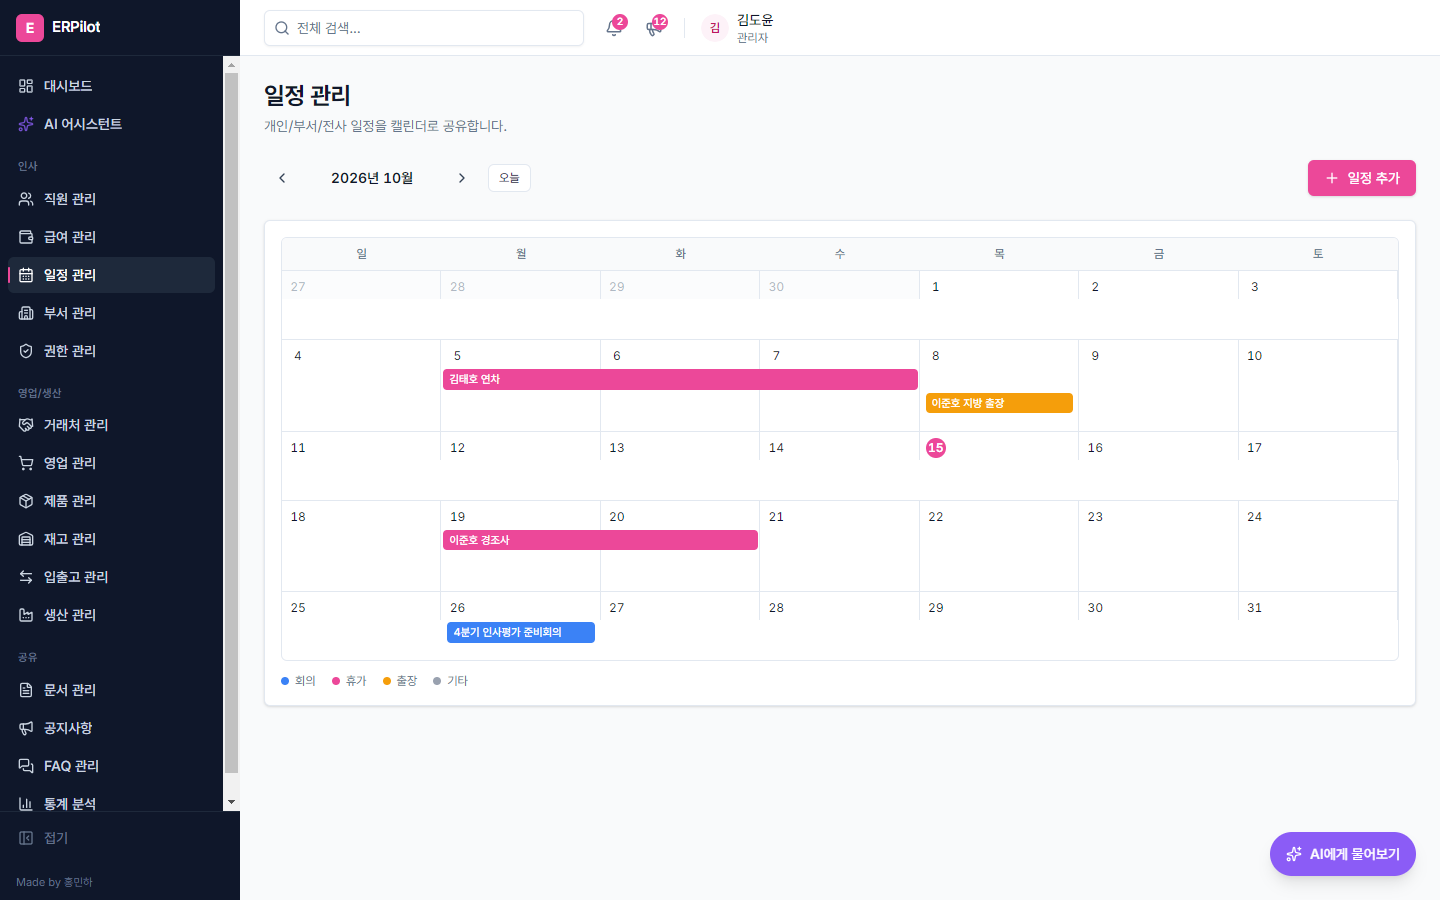
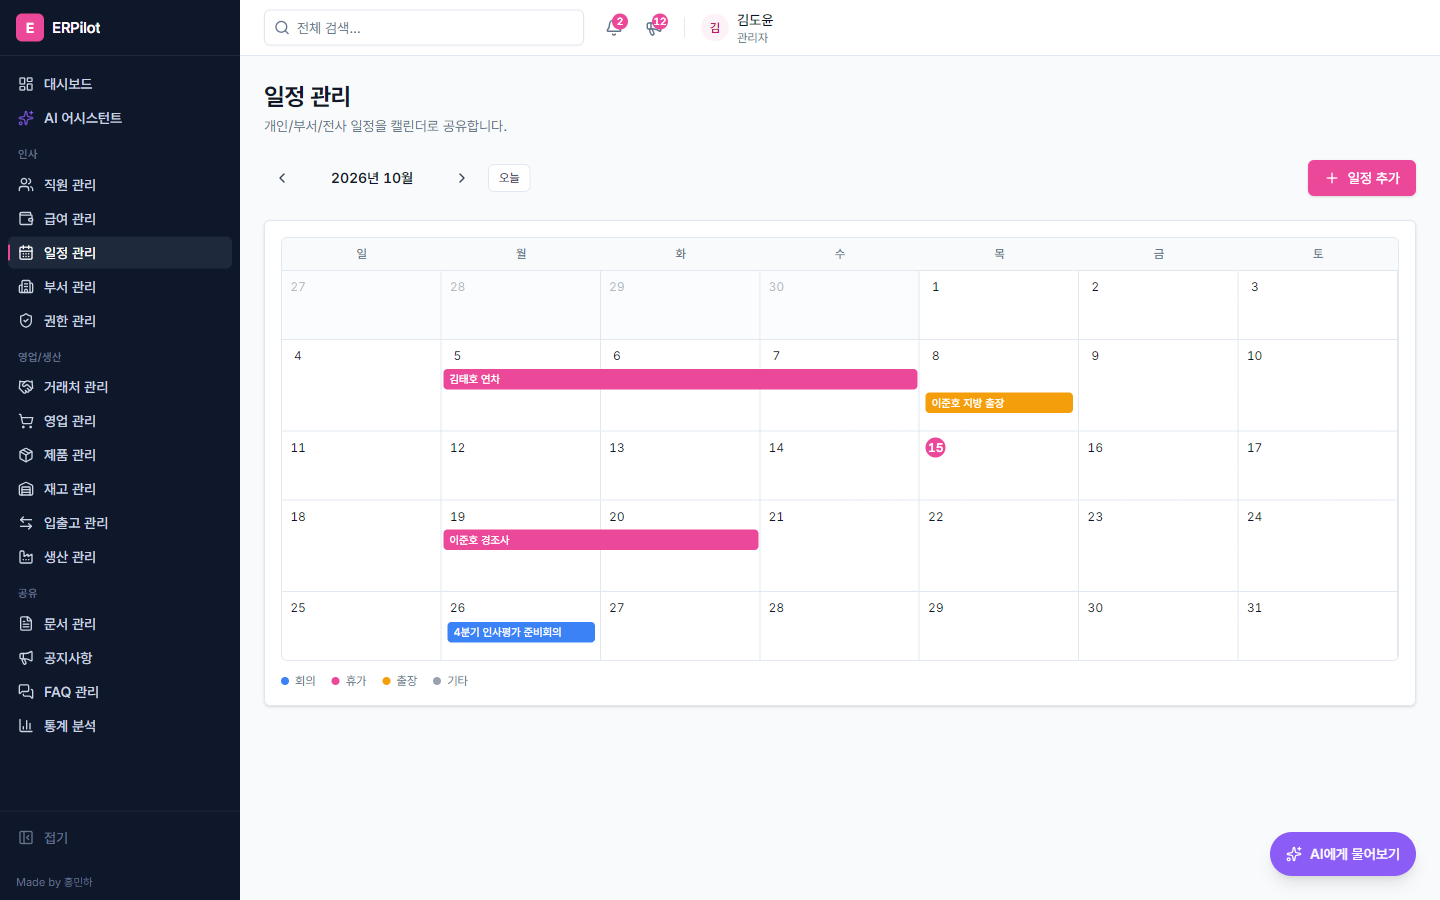
docs: 모바일 스크린샷·Railway 환경변수 안내·실제 발견 사례 추가
- README: 모바일 스크린샷, Railway 배포 환경변수 표(SMTP, FRONTEND_URL,
  GEMINI_MODEL과 무료 등급 한도 안내)
- docs/15: 생산 이중 입고, AI 확정 권한 우회, 달력 repeat(0) 사례 추가
- 일정·재고·문서 화면 스크린샷 갱신, 모바일 스크린샷 3장 추가

Changed region(s): [[0.0, 0.0933, 0.0938, 0.9022], [0.1562, 0.0622, 0.25, 0.9022], [0.0312, 0.0, 0.0625, 0.0311]]

diff --git a/docs/15-portfolio-presentation.md b/docs/15-portfolio-presentation.md
@@ -54,6 +54,24 @@
 - **A**: 429/5xx만 지수 백오프(1초→2초)로 최대 2회 재시도하고, 400/401/403처럼 재시도해도 소용없는 오류는 즉시 던지는 `retryTransient`를 만들어 Gemini 호출 3곳(채팅·FAQ 생성·문서 요약)에 적용했다.
 - **R**: 재시도 판정/백오프/한도를 단위 테스트로 고정했다.
 
+### 사례 5 — 완료된 생산 오더를 되돌렸다 다시 완료하면 재고가 두 번 입고되던 문제 (실제 발견·수정)
+- **S**: 생산 오더 상태 변경 코드를 읽다가, 완료를 "진행중"으로 되돌릴 수 있고 재고는 그대로인 채 다시 "완료"하면 멱등 가드(`status != COMPLETED`)를 통과한다는 점이 보였다.
+- **T**: 실제로 재현했다. 한 오더를 완료 → 되돌림 → 재완료하자 재고가 1,211 → 3,211 → 5,211로 늘고 입고 이력이 한 오더에 2건 생겼다.
+- **A**: 완료·취소를 종착 상태로 만들어 되돌림을 서버가 409로 거부하고, 일반 상태 변경도 종착 상태가 아닌 행에만 조건부로 적용해 경합까지 막았다. 화면에서도 완료·취소 카드의 선택을 잠갔다.
+- **R**: 거부/멱등 재완료/창고 없음/정상 입고 1회를 단위 테스트 7개로 고정했다. 같은 점검에서 데모 오더 10건이 입고 창고가 없어 완료 자체가 불가능한 시드 문제도 찾아 고쳤다.
+
+### 사례 6 — AI 확정 경로가 권한 검사를 건너뛰던 문제 (실제 발견·수정)
+- **S**: AI 초안은 "확정 시 기존 도메인 서비스를 그대로 호출해 동일한 검증을 탄다"고 설계했는데, 공지 작성 권한 검사는 서비스가 아니라 컨트롤러 가드에 있었다.
+- **T**: DB에 일반 직원의 공지 초안을 직접 만들어 확정하자 **공지가 실제로 생성**됐다. 정상 흐름에선 직원이 공지 초안을 만들 수 없어 바로 악용되진 않지만, 초안 생성 뒤 10분 안에 권한이 회수돼도 확정되는 구조였다.
+- **A**: 확정 시점에 액션별 필요 권한(`ANNOUNCEMENT:CREATE`, `PRODUCTION:UPDATE`)을 다시 검사하도록 했다. 연차는 본인 self-service라 제외했다.
+- **R**: 같은 시나리오가 403으로 막히는 것을 실서버로 확인했고, 권한 있음/없음/연차 예외를 테스트로 고정했다.
+
+### 사례 7 — 일정 추가 후 달력 선이 끊겨 보이던 CSS 문제 (실제 발견·수정)
+- **S**: 일정을 추가하면 달력의 세로 구분선과 회색 배경이 날짜 숫자 부분에서만 그려지고 끊겨 보인다는 제보가 있었다.
+- **T**: 원인은 `grid-template-rows: auto repeat(0, auto) 1fr`. 여러 날 일정(바)이 없는 주는 반복 횟수가 0인데 CSS의 `repeat()`는 1 이상이어야 해서 선언 전체가 무효가 되고, 배경 칸(`grid-row: 1 / -1`)이 첫 줄만 덮었다. 바 없는 주가 대부분이라 일정을 추가하면 눈에 띄었다.
+- **A**: 반복 문법을 쓰지 않고 `auto` + (바 개수만큼 `auto`) + `1fr`로 직접 만들었다.
+- **R**: 모든 주에서 배경 칸 높이와 주 높이가 같아지는 것을 측정으로 확인했다.
+
 ## 15.4 AI 적용 이유
 
 - **단순 자동화가 아니라 "접근성" 문제 해결**: 중소기업 ERP의 실제 문제는 기능 부족이 아니라 "어디에 뭐가 있는지 모름"이다. 자연어 인터페이스는 메뉴 구조를 외울 필요 없이 원하는 데이터에 바로 도달하게 한다.
